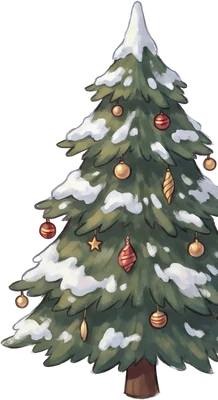
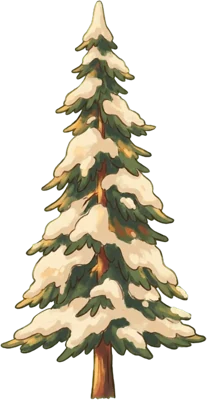
Bobsled chase: side-on turn frames and sled animation, 3D track walls, full trees
Claude-Session: https://claude.ai/code/session_016HTeTL1HdhdTLdUQNXXCi3

diff --git a/prezentowy-nalot/bobslej/index.html b/prezentowy-nalot/bobslej/index.html
@@ -56,7 +56,7 @@ const stage=document.getElementById('stage'), cv=document.getElementById('cv'), 
 function fit(){ const s=Math.min(innerWidth/VW,innerHeight/VH); stage.style.transform=`translate(-50%,-50%) scale(${s})`; }
 addEventListener('resize',fit); fit();
 const TOUCH=matchMedia('(pointer:coarse)').matches;
-const IMG={}; ['bob_rear','bob_turn','inez_rear','inez_turn','icearch','crystals','drift','lamp','banner','penguins','ws1','ws2','house1','house3','wall','crate','arch','snowman','sky','tree','pole','gift','heart','snowball','elf_happy','kiss'].forEach(n=>{ const i=new Image(); i.src='art/'+n+'.webp'; IMG[n]=i; });
+const IMG={}; ['bob_rear','bob_turn','inez_rear','inez_turn','icearch','crystals','drift','lamp','banner','penguins','ws1','ws2','house1','house3','bob_side','inez_side','tree_b','crate','arch','snowman','sky','tree','pole','gift','heart','snowball','elf_happy','kiss'].forEach(n=>{ const i=new Image(); i.src='art/'+n+'.webp'; IMG[n]=i; });
 const ok=i=>i&&i.complete&&i.naturalWidth;
 const rnd=(()=>{ let s=12345; return ()=>{ s=(s*16807)%2147483647; return s/2147483647; }; })();
 
@@ -149,7 +149,6 @@ const TS=2048, TSC=TS/WORLD; let TEX32=null; const SNOW32=0xfffbf3ee;
 const PROPS=[];
 const put=(s,lat,img,h,o={})=>{ const t=trackAt(s,lat); PROPS.push(Object.assign({x:t.x,y:t.y,img,h},o)); };
 const outside=(s,lat)=>{ const t=trackAt(s,lat), n=nearest(t.x,t.y); return Math.abs(n.lat)>halfAt(n.s)+60; };
-for(let s=0;s<LAP;s+=64){ const z=zoneAt(s); for(const side of [-1,1]){ if(z.id==='lake') put(s,side*(halfAt(s)+22),'drift',26,{wall:1}); else put(s,side*(halfAt(s)+16),'wall',34,{wall:1}); } }
 ZONES.forEach(z=>{ const W=s=>halfAt(s);
   if(z.id==='fab'){ for(let s=z.s+60;s<z.e;s+=150) for(const sd of [-1,1]) put(s,sd*(W(s)+44),'lamp',96);
     for(let s=z.s+300;s<z.e-100;s+=260){ const sd=(s/260|0)%2?1:-1; if(outside(s,sd*(W(s)+300))) put(s,sd*(W(s)+300),rnd()<.5?'ws1':'ws2',230); }
@@ -167,6 +166,10 @@ ZONES.forEach(z=>{ const W=s=>halfAt(s);
     for(let s=z.s;s<z.e;s+=110) for(const sd of [-1,1]){ if(rnd()<.4) continue; const off=W(s)+90+rnd()*420; if(outside(s,sd*off)) put(s,sd*off,rnd()<.8?'tree':'pole',rnd()<.8?170+rnd()*110:120); }
     for(let s=z.s+100;s<z.e;s+=260){ const sd=rnd()<.5?-1:1; for(let k=0;k<3;k++) put(s+k*34,sd*(W(s)+70),rnd()<.5?'penguins':'elf_happy',rnd()<.5?54:54,{fan:1,ph:rnd()*6}); } } });
 { const t=trackAt(0); PROPS.push({x:t.x,y:t.y,img:'arch',h:(halfAt(0)*2+70)*420/539}); }
+PROPS.forEach(o=>{ if(o.img==='tree'&&rnd()<.5){ o.img='tree_b'; o.h*=.85; } });
+// the channel walls: a continuous 3D strip along both edges (padded rail on top), not billboards
+const WALLS=[]; { const N=SEG.length; for(let i=0;i<N;i++){ const g=SEG[i], z=zoneAt(g.s), w=halfAt(g.s)+10, lake=z.id==='lake', cave=z.id==='cave';
+  WALLS.push({i,s:g.s,lx:g.x+g.dy*w,ly:g.y-g.dx*w,rx:g.x-g.dy*w,ry:g.y+g.dx*w,h:lake?13:cave?34:28,face:lake?['#ffffff','#dfeefa']:cave?['#8fb9e6','#4f78b0']:['#eef7ff','#a9cfec'],rail:lake?null:(Math.floor(i/2)%2?'#ffffff':'#d23c3c')}); } }
 
 // ---------- state ----------
 const RW=400, RH=225, HZ=74, FH=RH-HZ, CAMH=44, CAMD=100, FAR=4200, S=VW/RW;
@@ -204,16 +207,17 @@ function update(dt){ t0+=dt; clock+=dt; if(sub){ sub.ttl-=dt; if(sub.ttl<=0) sub
   // --- our bobsled: ice physics, the channel walls, turbo
   const fx=Math.cos(P.a), fy=Math.sin(P.a); let vf=P.vx*fx+P.vy*fy, vl=-P.vx*fy+P.vy*fx;
   const st=(K.R?1:0)-(K.L?1:0); P.steer+=(st-P.steer)*Math.min(1,dt*7);
-  P.boost=Math.max(0,P.boost-dt); P.spin=Math.max(0,P.spin-dt); P.bump=Math.max(0,P.bump-dt);
+  P.boost=Math.max(0,P.boost-dt); P.spin=Math.max(0,P.spin-dt); P.land=Math.max(0,(P.land||0)-dt);
+  if(st!==0&&st===P.turnDir) P.turnT=(P.turnT||0)+dt; else { P.turnT=0; P.turnDir=st; } P.bump=Math.max(0,P.bump-dt);
   const top=VMAX*(P.boost>0?1.35:1)*(K.B?.55:1), slip=zoneMix(P.lastS,'slip'), air=P.z>0;
   if(P.spin>0){ P.a+=dt*8; vf*=Math.pow(.35,dt); }
   else { P.a+=P.steer*dt*(1.65*Math.min(1,Math.max(.25,vf/260)))*(K.B?1.35:1)*(air?.3:1)*(1-.2*slip); if(!air) vf+=(top-vf)*Math.min(1,dt*(vf<top?.75:2.2)); }
-  if(!air) vl*=Math.exp(-dt*(K.B?2.5:4.2)*(1-.72*slip)); // ice: you slide sideways in hard turns, a lot more on the frozen lake // ice: you slide sideways a little in hard turns
+  if(!air) vl*=Math.exp(-dt*(K.B?2.5:4.2)*(1-.72*slip)); P.vl=vl; // ice: you slide sideways in hard turns, a lot more on the frozen lake // ice: you slide sideways a little in hard turns
   P.vx=Math.cos(P.a)*vf-Math.sin(P.a)*vl; P.vy=Math.sin(P.a)*vf+Math.cos(P.a)*vl;
   P.x+=P.vx*dt; P.y+=P.vy*dt;
   // jumping: off a ramp the sled flies, cannot steer much, and lands with a thump and a little turbo
   P.rampCd=Math.max(0,P.rampCd-dt);
-  if(air){ P.z+=P.vz*dt; P.vz-=980*dt; if(P.z<=0){ P.z=0; if(P.vz<-150){ shake=.35; sfx('hurt',.2); burst(P.x,P.y,'#ffffff',22,200,6); P.boost=Math.max(P.boost,.7); hint={t:'Super skok! 🚀',ttl:1.4}; } P.vz=0; } }
+  if(air){ P.z+=P.vz*dt; P.vz-=980*dt; if(P.z<=0){ P.z=0; if(P.vz<-150){ P.land=.25; shake=.35; sfx('hurt',.2); burst(P.x,P.y,'#ffffff',22,200,6); P.boost=Math.max(P.boost,.7); hint={t:'Super skok! 🚀',ttl:1.4}; } P.vz=0; } }
   const n=nearest(P.x,P.y,P.i); P.i=n.i; const lim=halfAt(n.s)-WALLPAD;
   if(Math.abs(n.lat)>lim){ const sg=Math.sign(n.lat), nx=-n.dy*sg, ny=n.dx*sg, over=Math.abs(n.lat)-lim; P.x-=nx*over; P.y-=ny*over; const vn=P.vx*nx+P.vy*ny; if(vn>0){ P.vx-=vn*1.6*nx; P.vy-=vn*1.6*ny; }
     if(P.bump<=0&&vn>60){ P.bump=.35; shake=Math.min(.5,vn/500); sfx('hurt',.25); burst(P.x+nx*30,P.y+ny*30,'#e8f7ff',12,180,10); if(!voice&&saidWall<=0){ saidWall=12; say('b_bump2'); } } P.vx*=.985; P.vy*=.985;
@@ -233,7 +237,7 @@ function update(dt){ t0+=dt; clock+=dt; if(sub){ sub.ttl-=dt; if(sub.ttl<=0) sub
   K.FHit=false;
   // --- Inez: a racing line with rubber band, two phases, gifts on the track and hearts thrown back
   const gap=INEZ.s-P.s; let iv=VMAX*.86; if(gap>1600) iv=VMAX*.7; else if(gap>800) iv=VMAX*.82; else if(gap<300) iv=VMAX*.98; if(gap<120) iv=VMAX*1.06; if(gap<0) iv=VMAX*1.4;
-  if(INEZ.phase===2) iv*=1.05; INEZ.flee=Math.max(0,(INEZ.flee||0)-dt); if(INEZ.flee>0&&INEZ.spin<=0) iv*=1.3; if(INEZ.spin>0){ INEZ.spin-=dt; iv*=.3; if(INEZ.spin<=0) INEZ.flee=2.8; }
+  if(INEZ.phase===2) iv*=1.05; INEZ.flee=Math.max(0,(INEZ.flee||0)-dt); if(INEZ.flee>0&&INEZ.spin<=0) iv*=1.16; if(INEZ.spin>0){ INEZ.spin-=dt; iv*=.3; if(INEZ.spin<=0) INEZ.flee=2.2; }
   INEZ.v+=(iv-INEZ.v)*Math.min(1,dt*(gap<0?4:1.3)); INEZ.s+=INEZ.v*dt;
   INEZ.dodge=Math.max(0,INEZ.dodge-dt); const it0=trackAt(INEZ.s), IH=halfAt(INEZ.s); const want=Math.sin(t0*.55)*IH*.45-it0.curv*IH*260;
   INEZ.lat+=(Math.max(-IH*.7,Math.min(IH*.7,want+(INEZ.dodge>0?INEZ.dsign*IH*.5:0)))-INEZ.lat)*Math.min(1,dt*2.2);
@@ -291,28 +295,43 @@ function project(x,y){ const dx=x-cam.x, dy=y-cam.y, ca=Math.cos(cam.a), sa=Math
 let DL=[];
 function bill(name,x,y,h,o={}){ const p=project(x,y); if(!p||p.z>(o.far||2600)||p.z<(o.near||60)) return; const im=IMG[name]; if(!ok(im)) return; const hh=h*p.k; if(hh<2) return; const w=hh*im.naturalWidth/im.naturalHeight; if(p.sx+w<-80||p.sx-w>VW+80) return;
   DL.push({z:p.z,f:()=>{ c.save(); c.globalAlpha=Math.max(0,Math.min(1,((o.far||2600)-p.z)/500,(p.z-(o.near||60))/70)); c.translate(p.sx,p.sy-(o.lift||0)*p.k); if(o.rot) c.rotate(o.rot); if(o.flip) c.scale(-1,1); c.drawImage(im,-w/2,-hh,w,hh); c.restore(); }}); return p; }
+function camPt(x,y){ const dx=x-cam.x, dy=y-cam.y, ca=Math.cos(cam.a), sa=Math.sin(cam.a); return [dx*ca+dy*sa,-dx*sa+dy*ca]; }
+function drawWalls(){ const N=WALLS.length, NEAR=14, FARW=1700;
+  for(let i=0;i<N;i++){ const A=WALLS[i], B=WALLS[(i+1)%N]; if(Math.abs(A.lx-cam.x)>FARW+300||Math.abs(A.ly-cam.y)>FARW+300) continue;
+    for(const side of [0,1]){ let a=side?camPt(A.rx,A.ry):camPt(A.lx,A.ly), b=side?camPt(B.rx,B.ry):camPt(B.lx,B.ly);
+      if(a[0]<NEAR&&b[0]<NEAR) continue; if(a[0]>FARW&&b[0]>FARW) continue;
+      if(a[0]<NEAR){ const t=(NEAR-a[0])/(b[0]-a[0]); a=[NEAR,a[1]+(b[1]-a[1])*t]; } else if(b[0]<NEAR){ const t=(NEAR-b[0])/(a[0]-b[0]); b=[NEAR,b[1]+(a[1]-b[1])*t]; }
+      const pa=cam.f/a[0]*S, pb=cam.f/b[0]*S, xa=VW/2+a[1]*pa, xb=VW/2+b[1]*pb; if(Math.max(xa,xb)<-100||Math.min(xa,xb)>VW+100) continue;
+      const ga=(HZ+cam.h*cam.f/a[0])*S, gb=(HZ+cam.h*cam.f/b[0])*S, ta=ga-A.h*pa, tb=gb-B.h*pb, zz=(a[0]+b[0])/2, al=Math.min(1,(FARW-zz)/400);
+      DL.push({z:zz+.5,f:()=>{ c.globalAlpha=al; const gr=c.createLinearGradient(0,Math.min(ta,tb),0,Math.max(ga,gb)); gr.addColorStop(0,A.face[0]); gr.addColorStop(1,A.face[1]); c.fillStyle=gr; c.strokeStyle=gr; c.lineWidth=1.2;
+        c.beginPath(); c.moveTo(xa,ga); c.lineTo(xb,gb); c.lineTo(xb,tb); c.lineTo(xa,ta); c.closePath(); c.fill(); c.stroke();
+        if(A.rail){ const ra=Math.max(1.5,7*pa), rb=Math.max(1.5,7*pb); c.fillStyle=A.rail; c.beginPath(); c.moveTo(xa,ta+ra); c.lineTo(xb,tb+rb); c.lineTo(xb,tb-rb*.4); c.lineTo(xa,ta-ra*.4); c.closePath(); c.fill(); }
+        const ea=A.rail?Math.max(1.5,7*pa)*.4:0, eb=A.rail?Math.max(1.5,7*pb)*.4:0; c.fillStyle='rgba(255,255,255,.8)'; c.beginPath(); c.moveTo(xa,ta-ea); c.lineTo(xb,tb-eb); c.lineTo(xb,tb-eb+Math.max(1,2*pb)); c.lineTo(xa,ta-ea+Math.max(1,2*pa)); c.closePath(); c.fill(); c.globalAlpha=1; }}); } } }
 function txt(s,x,y,size,col,al){ c.font=`800 ${size}px "Baloo 2",sans-serif`; c.textAlign=al||'left'; c.textBaseline='middle'; c.lineWidth=Math.max(3,size/5); c.strokeStyle='rgba(10,10,30,.75)'; c.strokeText(s,x,y); c.fillStyle=col; c.fillText(s,x,y); }
 function draw(){ c.setTransform(1,0,0,1,0,0); c.fillStyle='#0b1430'; c.fillRect(0,0,VW,VH);
   c.save(); if(shake>0) c.translate((Math.random()-.5)*22*shake,(Math.random()-.5)*16*shake); c.translate(VW/2,VH*.86); c.rotate(cam.roll); c.translate(-VW/2,-VH*.86);
   drawSky(); drawFloor();
-  DL=[];
+  DL=[]; drawWalls();
   PROPS.forEach(o=>bill(o.img,o.x,o.y,o.h,{lift:o.fan?Math.abs(Math.sin(t0*5+o.ph))*8:0,far:o.far||(o.wall?1500:2600),near:o.wall?40:o.arch?60:70}));
   DRIFTS.forEach(d=>{ if(d.gone>0) return; const t=trackAt(d.s,d.lat); bill('drift',t.x,t.y,44); });
   CRATES.forEach(cr=>{ if(cr.gone>0) return; const t=trackAt(cr.s,cr.lat); bill('crate',t.x,t.y,40,{lift:4+Math.sin(t0*3+cr.s)*4}); });
   obst.forEach(o=>bill(o.img,o.x,o.y,46));
   hearts.forEach(h=>bill('kiss',h.x,h.y,38,{lift:22+Math.sin(t0*8+h.t)*6,rot:Math.sin(t0*6)*.3}));
-  { const rel=Math.atan2(Math.sin(INEZ.a-cam.a),Math.cos(INEZ.a-cam.a)), turn=Math.abs(rel)>.13&&INEZ.spin<=0; const p=bill(turn?'inez_turn':'inez_rear',INEZ.x,INEZ.y,62,{rot:INEZ.spin>0&&state!=='won'?Math.sin(t0*22)*.5:rel*.12,flip:turn&&rel>0,lift:INEZ.z,near:85,far:3600}); if(p&&INEZ.spin>0&&state==='race') DL.push({z:p.z-1,f:()=>txt('❄ PAC!',p.sx,p.sy-80*p.k,30,'#ffffff','center')}); }
+  { const rel=Math.atan2(Math.sin(INEZ.a-cam.a),Math.cos(INEZ.a-cam.a)), turn=Math.abs(rel)>.13&&INEZ.spin<=0, iside=turn&&Math.abs(rel)>.3; const p=bill(iside?'inez_side':turn?'inez_turn':'inez_rear',INEZ.x,INEZ.y,iside?52:62,{rot:INEZ.spin>0&&state!=='won'?Math.sin(t0*22)*.5:rel*.12,flip:turn&&rel>0,lift:INEZ.z,near:85,far:3600}); if(p&&INEZ.spin>0&&state==='race') DL.push({z:p.z-1,f:()=>txt('❄ PAC!',p.sx,p.sy-80*p.k,30,'#ffffff','center')}); }
   shots.forEach(b=>bill('snowball',b.x,b.y,13,{lift:b.z,near:18}));
   sparks.forEach(q=>{ const p=project(q.x,q.y); if(p&&p.z>40) DL.push({z:p.z,f:()=>{ c.globalAlpha=Math.min(1,q.t*2); c.fillStyle=q.col; c.beginPath(); c.arc(p.sx,p.sy-q.z*p.k,Math.min(9,Math.max(1.5,2.5*p.k)),0,6.29); c.fill(); c.globalAlpha=1; }}); });
   DL.sort((a,b)=>b.z-a.z).forEach(d=>d.f());
   // our bobsled with the family
   // default sprite: exactly from behind; a slight-turn frame (mirrored for right) only while steering
-  const turn=Math.abs(P.steer)>.35&&P.spin<=0, im=turn?IMG.bob_turn:IMG.bob_rear, sp=Math.hypot(P.vx,P.vy), lift=P.z*.9;
+  // three frames: straight from behind (default), slight turn, and side-on when steering hard or sliding
+  const sl=Math.abs(P.vl||0), hard=P.spin<=0&&((P.turnT>.3&&Math.abs(P.steer)>.75)||sl>120), turn=P.spin<=0&&(hard||Math.abs(P.steer)>.3), dir=Math.abs(P.steer)>.2?Math.sign(P.steer):Math.sign(P.vl||1),
+    im=hard?IMG.bob_side:turn?IMG.bob_turn:IMG.bob_rear, sp=Math.hypot(P.vx,P.vy), lift=P.z*.9;
   if(lift>0){ c.fillStyle=`rgba(20,30,60,${Math.max(.08,.3-lift/600)})`; c.beginPath(); c.ellipse(VW/2+P.steer*28,VH-12,150-lift*.15,22,0,0,6.29); c.fill(); }
-  if(ok(im)){ const h=250, w=h*im.naturalWidth/im.naturalHeight, bob=Math.sin(t0*16)*2.5*(sp/VMAX)*(lift>0?0:1), lean=P.spin>0?Math.sin(t0*25)*.35:P.steer*.06+(lift>0?-P.vz*.0002:0), fl=turn&&P.steer>0?-1:1;
-    c.save(); c.translate(VW/2+P.steer*28,VH-8+bob-lift); c.rotate(lean); c.scale(fl,1); c.drawImage(im,-w/2,-h,w,h);
+  if(ok(im)){ const h=hard?245:250, w=h*im.naturalWidth/im.naturalHeight, grd=lift>0?0:1, bob=(Math.sin(t0*16)*2.5+(Math.random()-.5)*2.2)*(sp/VMAX)*grd, lean=P.spin>0?Math.sin(t0*25)*.35:P.steer*(hard?.1:.06)+(lift>0?-P.vz*.0002:0), fl=turn&&dir>0?-1:1, sq=P.land>0?1-P.land*.5:1;
+    c.save(); c.translate(VW/2+P.steer*34,VH-8+bob-lift); c.rotate(lean); c.scale(fl*(2-sq),sq); c.drawImage(im,-w/2,-h,w,h);
     if(P.fire>0){ c.globalAlpha=P.fire/.18; c.fillStyle='#ffffff'; c.beginPath(); c.arc(w*.3,-h*.84,24*(1.2-P.fire*2),0,6.29); c.fill(); c.globalAlpha=1; } c.restore(); }
   // snow spray from the runners
+  if(sp>150&&P.z<=0&&Math.abs(P.steer)>.5) for(let k=0;k<5;k++){ const sd=-Math.sign(P.steer); c.fillStyle='rgba(255,255,255,.9)'; c.beginPath(); c.arc(VW/2+P.steer*34+sd*(110+Math.random()*90),VH-20-Math.random()*60,3+Math.random()*9,0,6.29); c.fill(); }
   if(sp>150) for(let k=0;k<(P.boost>0?6:3);k++){ const sd=k%2?1:-1; c.fillStyle='rgba(255,255,255,.85)'; c.beginPath(); if(P.z<=0) c.arc(VW/2+P.steer*28+sd*(95+Math.random()*40)-P.steer*60,VH-14-Math.random()*26,3+Math.random()*7,0,6.29); c.fill(); }
   c.restore();
   if(P.boost>0){ c.strokeStyle='rgba(255,236,150,.55)'; c.lineWidth=3; for(let k=0;k<14;k++){ const a=k/14*6.28+t0*2, r1=260+((t0*900+k*97)%260); c.beginPath(); c.moveTo(VW/2+Math.cos(a)*r1,VH*.55+Math.sin(a)*r1*.55); c.lineTo(VW/2+Math.cos(a)*(r1+80),VH*.55+Math.sin(a)*(r1+80)*.55); c.stroke(); } }

diff --git a/prezentowy-nalot/README.md b/prezentowy-nalot/README.md
@@ -52,7 +52,8 @@ The second level of the platformer engine: a toy-factory hall with wooden platfo
 ## Pościg w bobslejach (`bobslej/`, Mode 7)
 The finale with Inez, on its own Mode 7 engine: a closed ice-channel course (Catmull-Rom loop around the toy factory) is painted into a 2048² ground texture — banked blue channel, red-and-white wall stripe, turbo chevrons, checkered start — and rendered per scanline at 400×225 with a horizon haze, the North Pole sky scrolling with the heading and the camera rolling in curves. Ice blocks line both walls as billboards; trees, candy-cane poles, snowmen and cheering elves stand outside, the start arch spans the track. The family is seen from behind in their red bobsled (Kaczor steers, Kaka, little Mikołaj with the snow cannon at the back) and Inez races ahead in her pink heart bobsled.
 - Six zones per lap, each with its own width, ice colour, walls, scenery and light, blending into each other: **Dziedziniec fabryki** (lanterns, elf workshops, a garland banner), **Las choinkowy** (dense pines), **Lodowa jaskinia** (a narrow tunnel of ice arches with glowing crystals, dark sky), **Zamarznięte jezioro** (a very wide, slippery glassy stretch edged with snowbanks, cheering penguins), **Wioska elfów** (narrow streets between houses, snowdrifts across the track that slow you down unless you blast them) and **Skocznia** (two wooden ramps under banners: the sled flies, lands with a thump and a short turbo). The zone name shows on entry.
-- Vehicles: the default sprites show both bobsleds exactly from behind; a slight-turn frame (mirrored for the other side) appears only while steering or when Inez curves.
+- Vehicles: three frames each — exactly from behind (default), a slight turn, and side-on when steering hard or sliding (mirrored for the other side); Inez switches frames by how much she curves relative to the camera. The sled rattles with speed, leans into turns, throws snow off the outer side, flies with a shadow over ramps and squashes on landing.
+- The channel walls are a continuous 3D strip along both edges (ice face with a red-and-white padded rail; darker in the cave, low snowbanks on the lake); trees are complete pines and decorated spruces.
 - Physics: the sled slides a little sideways on the ice, bounces off the channel walls (which slow it and turn the nose away), yellow chevrons give turbo, ▼ brakes for tighter turns.
 - Snow cannon: Space / X / ❄ fires arcing snowballs that the brass sight curves towards Inez; ammo is limited (crates on the track give +4).
 - Inez: rubber-band racing line, swerves away from snowballs, drops gift boxes and throws hearts back down the track (both spin you out; snowballs pop them). After four hits she speeds up and attacks more often. Eight hits before she finishes three laps win; then `../?after=bobslej` leads to the ending at Santa's workshop (`?pole`) and the "Wesołych Świąt" card.
